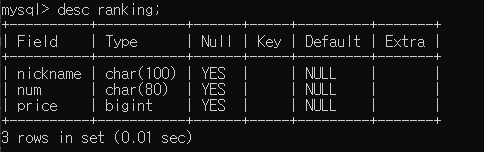
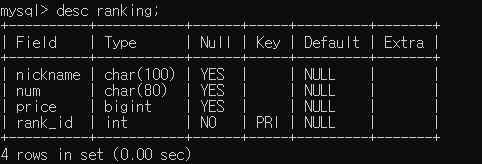
readme

diff --git a/README.md b/README.md
@@ -10,7 +10,7 @@
 - id : lotto
 - password : game
 - DB명 : lottoDB
-- 테이블명 : lotto    
+- 테이블명 : lotto, ranking    
 
 
 ![db](.img/table.PNG)
@@ -20,7 +20,10 @@
   - 리스트로 번호 받아오지 않고 각각 받아옴(lottoNo -> num1, num2, ... ,num6, bonus)
 - db수정
   - 이름 직관적으로 firstWinamnt -> price1, ..., price5
-
+![rank](./img/ranikingtable.PNG)
+- ranking table
+- 이 테이블을 rest framework로 /api/rank/ 에 보냄
+- 이슈 : 닉네임을 어떻게 받을지
 ### 참고 블로그
 - [Spring 프로젝트 세팅 및 DB 연결](https://all-record.tistory.com/176?category=733072)
 ### 에러
